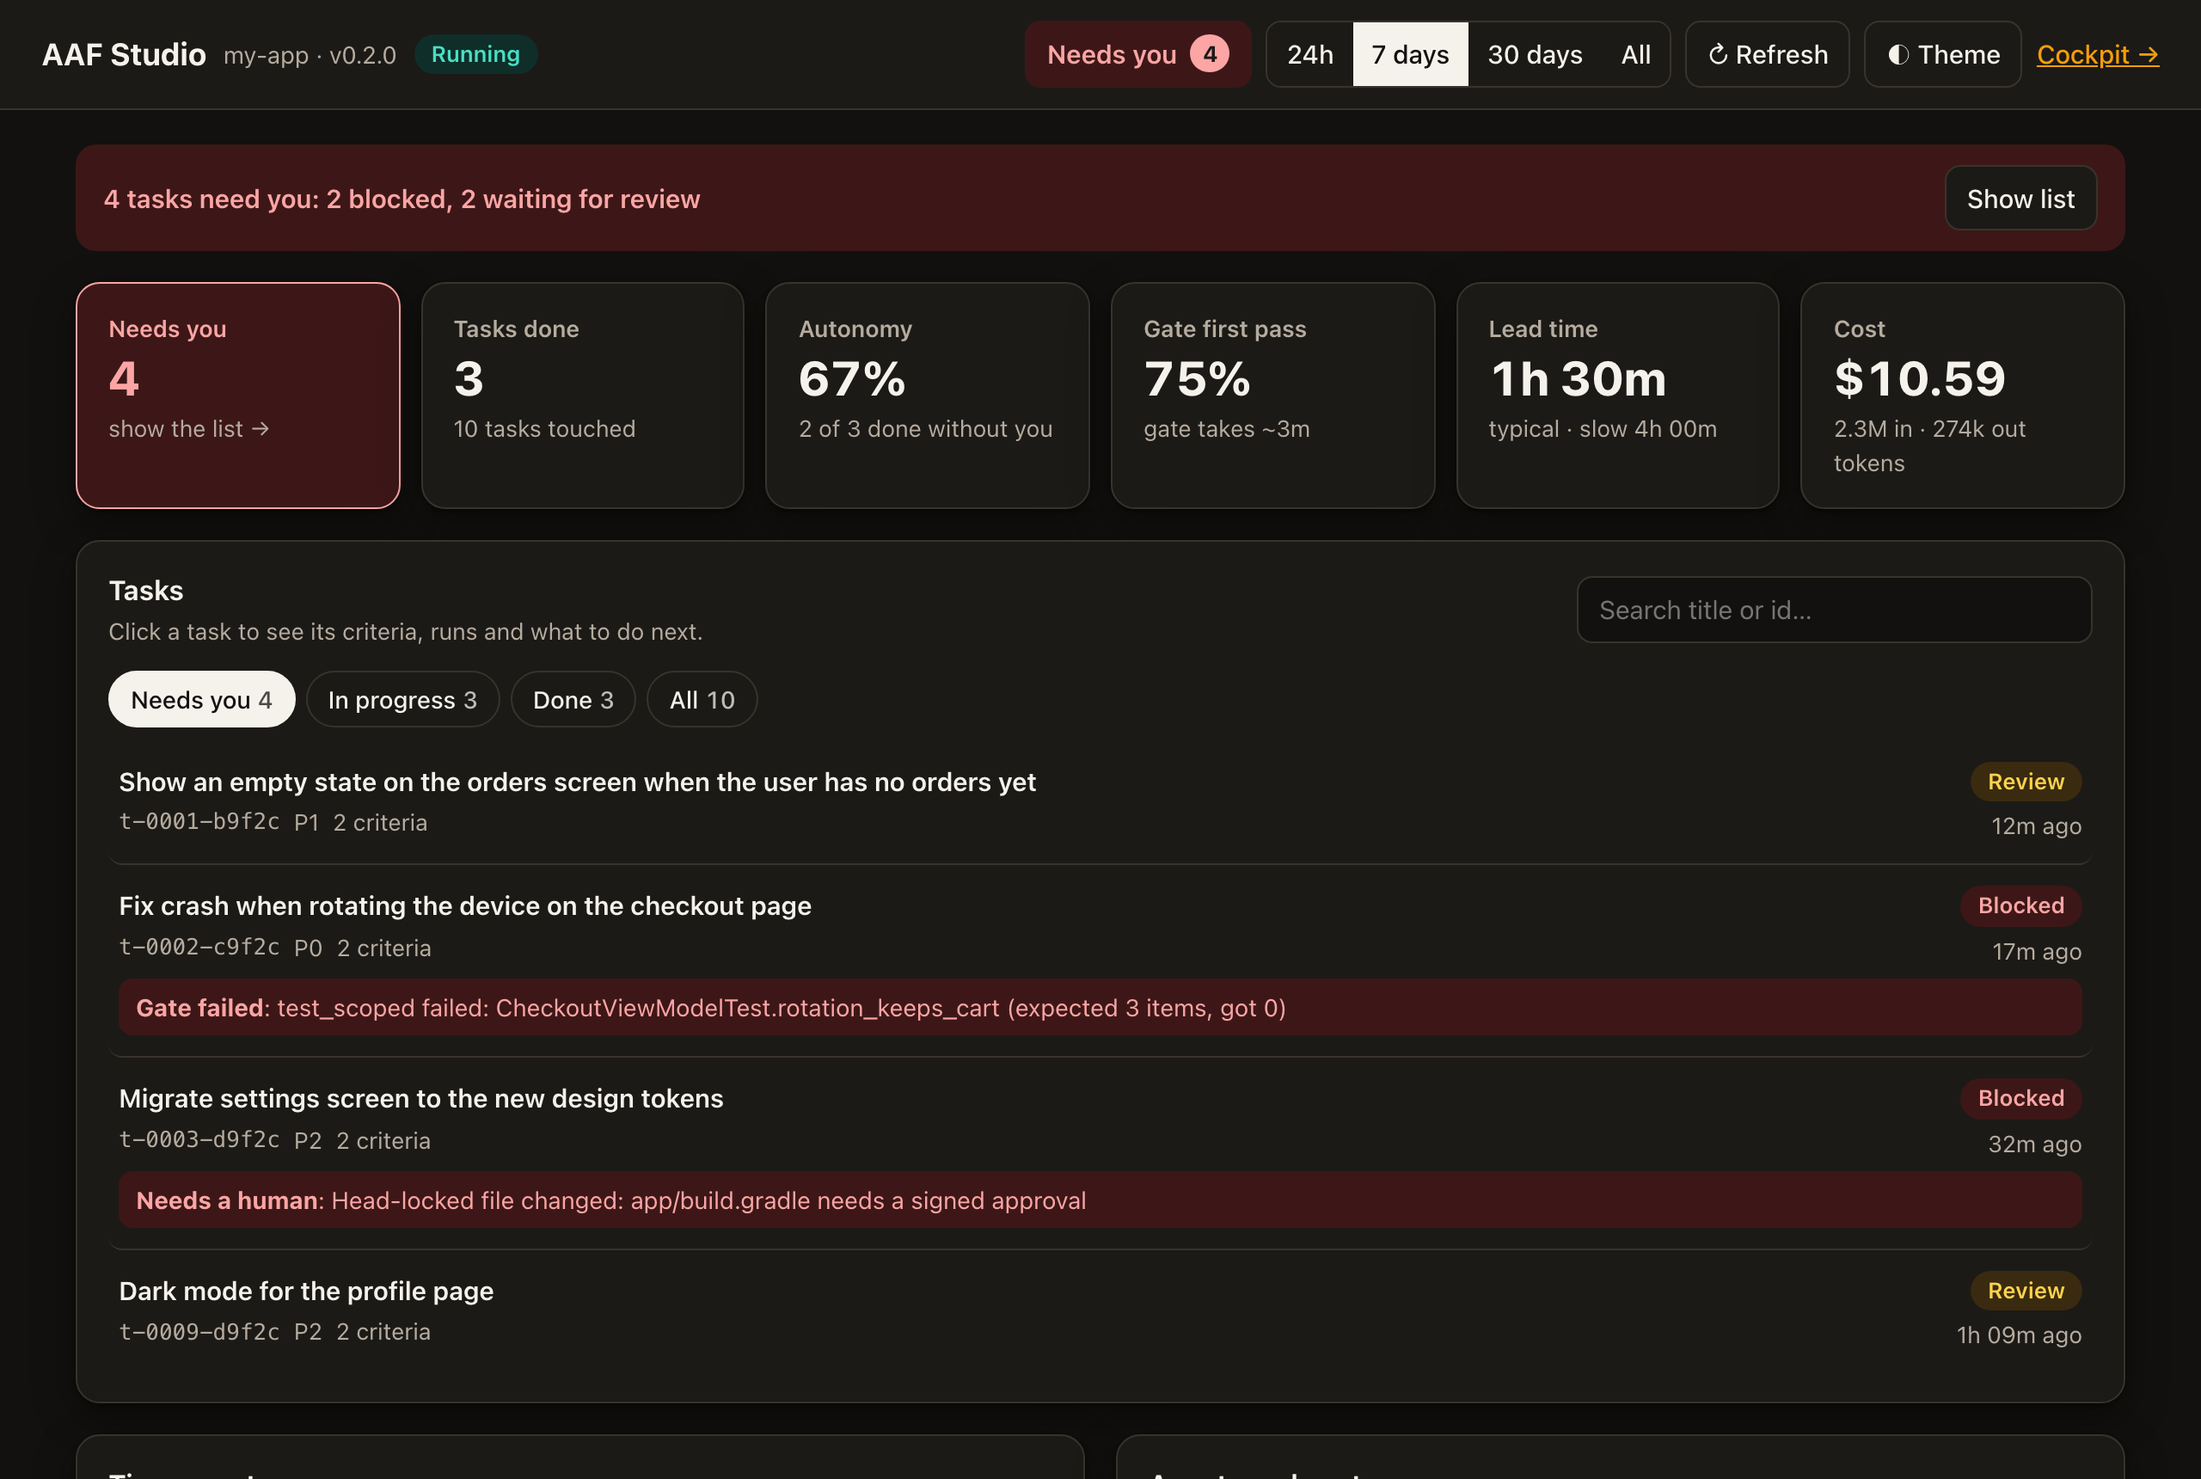
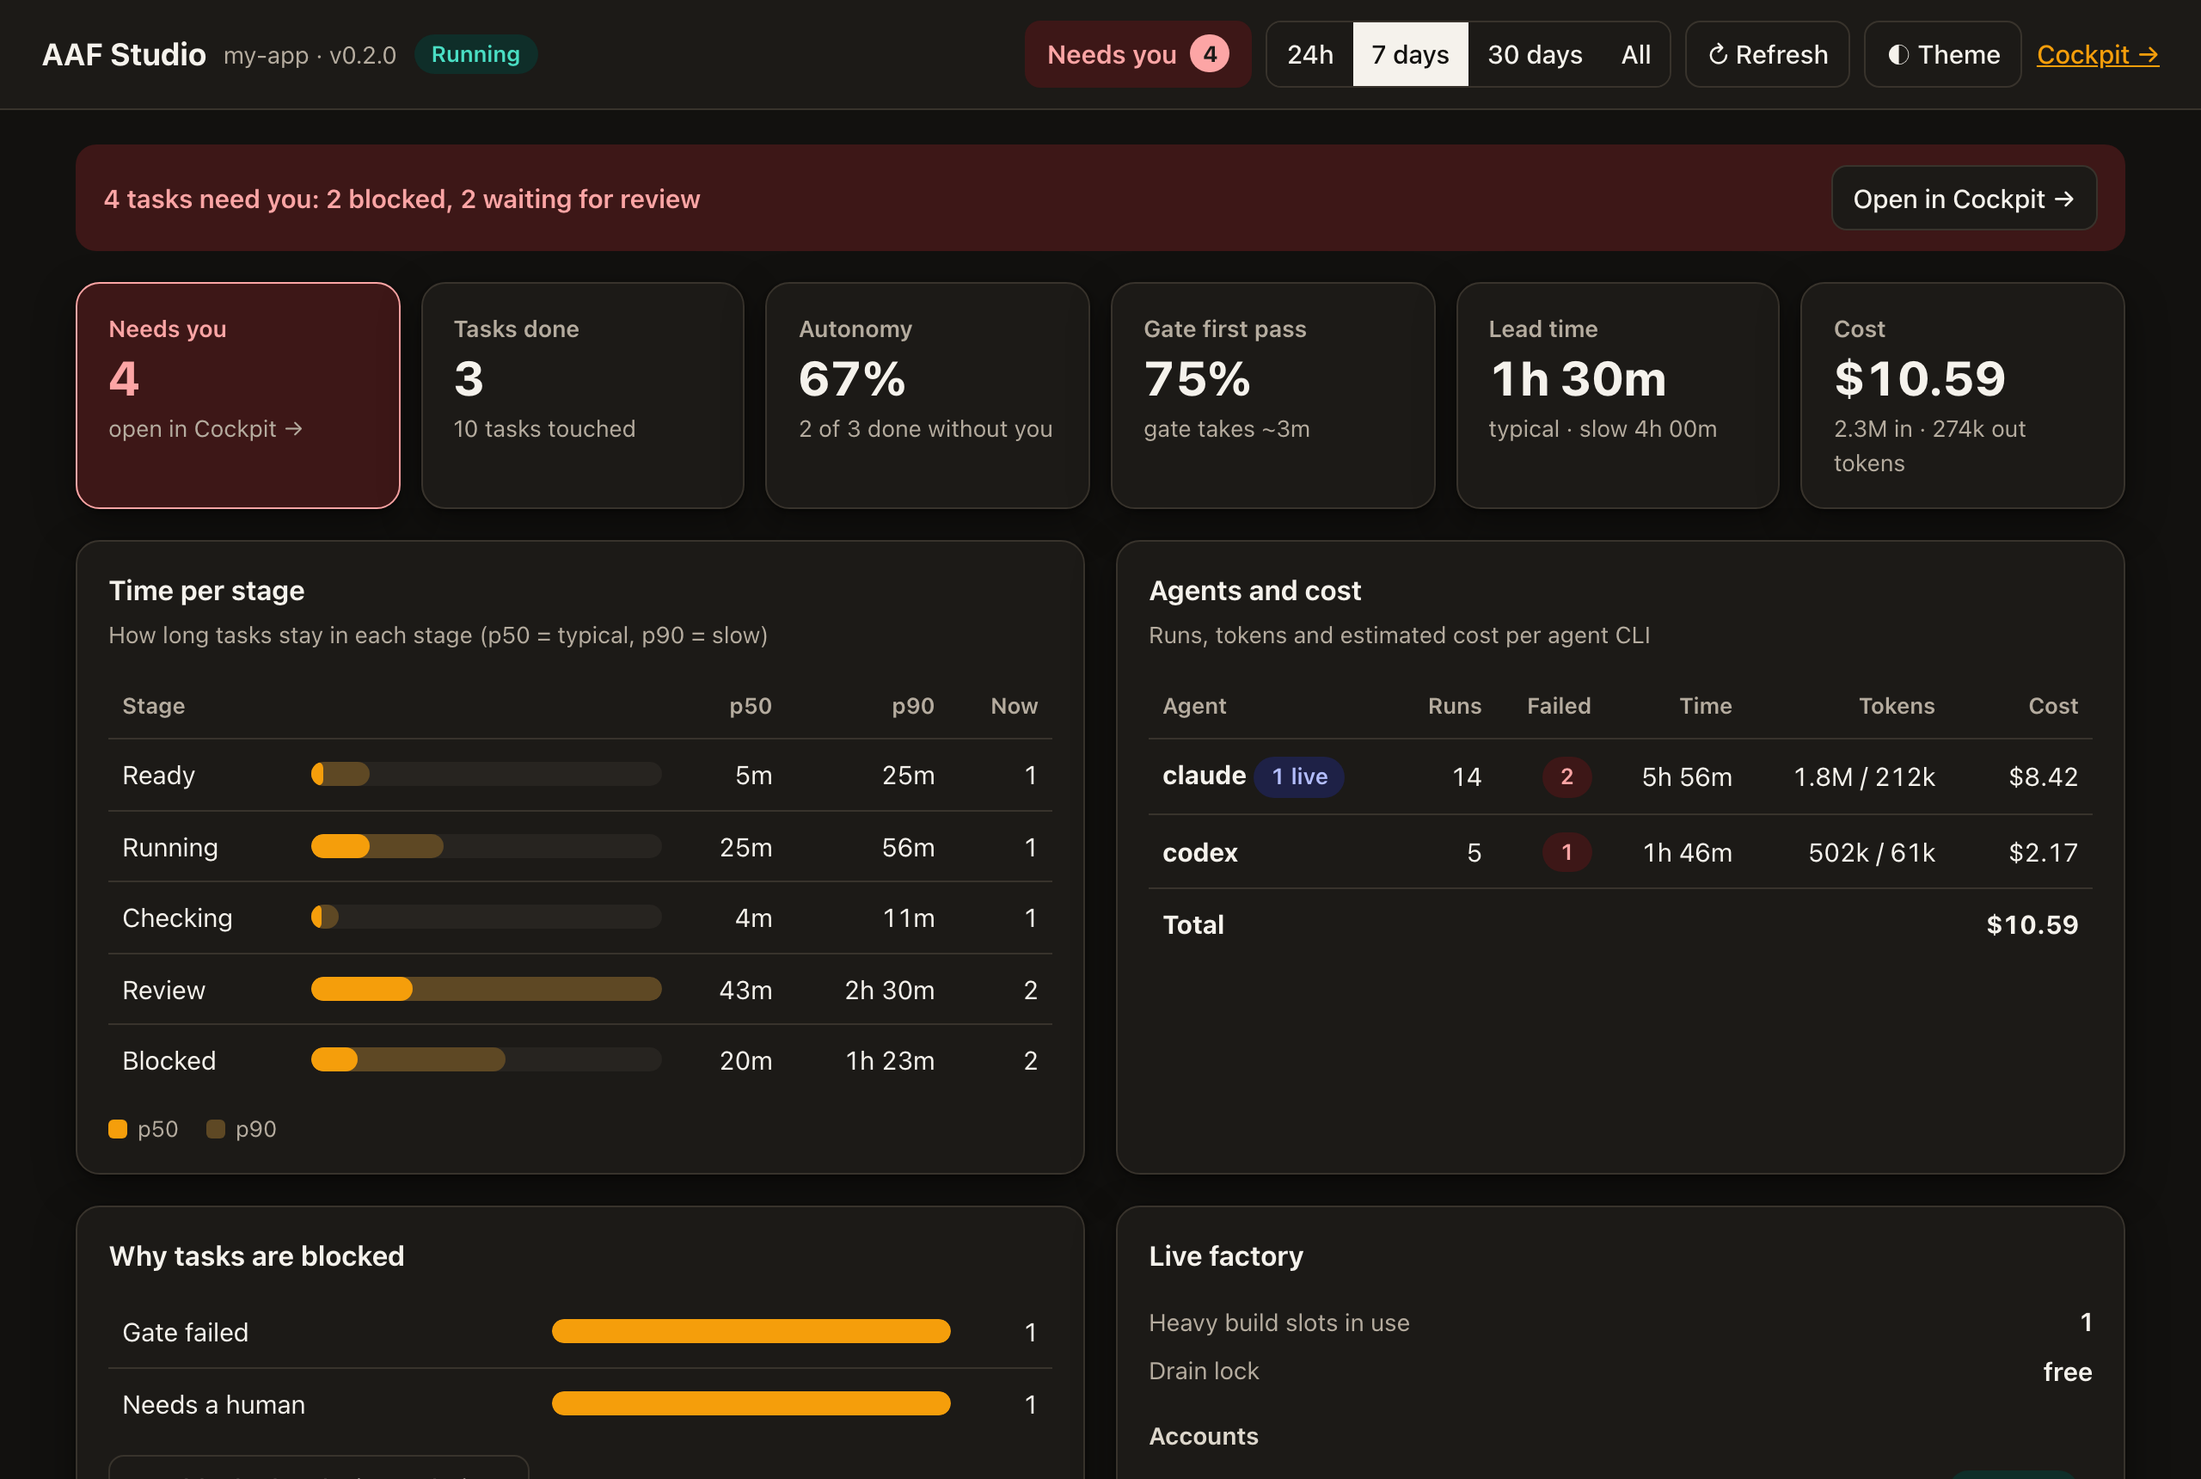
fix(ui): aaf ui --open mở lại Cockpit; Studio chỉ còn là màn thống kê
- aaf ui --open mở Cockpit (/) như trước; vẫn in link Studio.
- Cockpit có nút Studio ở header; /?view=needyou mở thẳng tab Need You.
- Studio bỏ danh sách task và panel Needs you (đã có ở Cockpit); nút, banner
  và ô KPI Needs you chuyển sang Need You của Cockpit.
- README/QUICKSTART: bảng Cockpit (làm việc) và Studio (theo dõi), ảnh mới.

diff --git a/crates/aaf-engine/src/web_ui/studio.html b/crates/aaf-engine/src/web_ui/studio.html
@@ -37,6 +37,7 @@ header{position:sticky;top:0;z-index:5;display:flex;flex-wrap:wrap;gap:10px 14px
 .seg{display:inline-flex;border:1px solid var(--border);border-radius:9px;overflow:hidden}
 .seg button{border:0;border-radius:0;padding:7px 11px}
 .seg button.on{background:var(--ink);color:var(--bg)}
+a.needbtn,a.btnlink{display:inline-flex;align-items:center;text-decoration:none;border:1px solid var(--border);background:var(--surface);color:var(--ink);border-radius:9px;padding:7px 12px}
 .needbtn{display:inline-flex;align-items:center;gap:8px;font-weight:600}
 .needbtn.hot{background:var(--err-bg);border-color:transparent;color:var(--err)}
 .badge{display:inline-flex;align-items:center;justify-content:center;min-width:22px;height:22px;padding:0 7px;border-radius:999px;font-size:13px;font-weight:700;background:var(--surface2);color:var(--ink)}
@@ -133,7 +134,7 @@ ul.ac li{margin:3px 0;overflow-wrap:anywhere}
 <header>
   <div class="brand"><h1>AAF Studio</h1><span class="scope" id="scope"></span><span class="pill" id="factory">…</span></div>
   <div class="controls">
-    <button id="needBtn" class="needbtn" title="Tasks that are blocked or waiting for your review">Needs you <span class="badge" id="needCount">0</span></button>
+    <a id="needBtn" class="needbtn" href="/?view=needyou" title="Open the Need You list in the Cockpit">Needs you <span class="badge" id="needCount">0</span></a>
     <div class="seg" id="period" aria-label="Period">
       <button data-h="24">24h</button><button data-h="168" class="on">7 days</button><button data-h="720">30 days</button><button data-h="">All</button>
     </div>
@@ -144,16 +145,8 @@ ul.ac li{margin:3px 0;overflow-wrap:anywhere}
 </header>
 <main>
   <div class="card err" id="err"></div>
-  <div class="banner" id="banner"><span id="bannerText"></span><button id="bannerBtn">Show list</button></div>
+  <div class="banner" id="banner"><span id="bannerText"></span><a id="bannerBtn" class="btnlink" href="/?view=needyou">Open in Cockpit →</a></div>
   <section class="grid" id="kpis"></section>
-  <section class="card">
-    <div class="head">
-      <div><h2>Tasks</h2><div class="sub">Click a task to see its criteria, runs and what to do next.</div></div>
-      <input class="search" id="search" type="search" placeholder="Search title or id…" aria-label="Search tasks">
-    </div>
-    <div class="chips" id="filters"></div>
-    <div class="tasks" id="tasks" style="margin-top:8px"></div>
-  </section>
   <section class="two">
     <div class="card"><h2>Time per stage</h2><div class="sub">How long tasks stay in each stage (p50 = typical, p90 = slow)</div><div id="stages"></div>
       <div class="legend"><span>p50</span><span class="p90">p90</span></div></div>
@@ -290,20 +283,6 @@ ul.ac li{margin:3px 0;overflow-wrap:anywhere}
     }
   }
 
-  function openNeeds() {
-    const list = needs();
-    openDrawer("Needs you", list.length ? `${list.length} task${list.length > 1 ? "s" : ""} waiting on you` : "Nothing is waiting on you",
-      list.length ? list.map((t) => {
-        const step = nextSteps(t);
-        const reason = t.state === "blocked" ? `<b>${esc(reasonLabel(t.blocked_reason))}</b>${t.blocked_detail ? ": " + esc(t.blocked_detail) : ""}` : "";
-        return `<div class="need"><div style="display:flex;justify-content:space-between;gap:10px;align-items:flex-start"><div class="t">${esc(t.title)}</div>${pill(t.state)}</div>` +
-          `<div class="meta muted" style="font-size:13.5px;margin-top:2px"><span class="mono">${esc(t.id)}</span> · ${esc(t.priority || "")} · ${esc(ago(t.updated_at))}</div>` +
-          (reason ? `<div class="r">${reason}</div>` : "") +
-          (step.text ? `<div class="r muted">${esc(step.text)}</div>` : "") + step.cmds.map(cmd).join("") +
-          `<div class="acts"><button data-task="${esc(t.id)}">Details</button><a href="/" style="align-self:center">Open in Cockpit →</a></div></div>`;
-      }).join("") : `<div class="empty">🎉 All clear. Nothing is blocked and nothing waits for review.</div>`);
-  }
-
   // ---------- Drawer ----------
   function openDrawer(title, sub, html) {
     $("drawerTitle").textContent = title; $("drawerSub").textContent = sub || "";
@@ -365,35 +344,13 @@ ul.ac li{margin:3px 0;overflow-wrap:anywhere}
     const c = r.counts || {}, a = r.autonomy || {}, lt = r.lead_time || {};
     const n = needs().length;
     $("kpis").innerHTML = [
-      kpi("Needs you", num(n), n ? "show the list" : "nothing waiting", { action: "needs", hot: n > 0 }),
+      kpi("Needs you", num(n), n ? "open in Cockpit" : "nothing waiting", { action: "needs", hot: n > 0 }),
       kpi("Tasks done", num(r.tasks_done), `${num(c.total)} tasks touched`),
       kpi("Autonomy", pct(a.autonomy_rate_pct), `${num(a.done_without_human)} of ${num(a.done_tasks)} done without you`),
       kpi("Gate first pass", pct(a.gate_first_pass_rate_pct), a.gate_avg_duration_ms != null ? `gate takes ~${dur(Math.round(a.gate_avg_duration_ms / 1000))}` : "share passing first try"),
       kpi("Lead time", lt.samples ? dur(lt.p50_secs) : "n/a", lt.samples ? `typical · slow ${dur(lt.p90_secs)}` : "created → done"),
       kpi("Cost", usd(r.estimated_cost_usd), `${compact(r.total_tokens_in)} in · ${compact(r.total_tokens_out)} out tokens`),
     ].join("");
-  }
-
-  function renderFilters() {
-    $("filters").innerHTML = FILTERS.map(([key, label, fn]) =>
-      `<button data-filter="${key}" class="${filter === key ? "on" : ""}">${esc(label)}<span class="c">${tasks.filter(fn).length}</span></button>`).join("");
-  }
-
-  function renderTasks() {
-    renderFilters();
-    const fn = (FILTERS.find((f) => f[0] === filter) || FILTERS[3])[2];
-    const q = query.trim().toLowerCase();
-    const rows = tasks.filter(fn).filter((t) => !q || String(t.title).toLowerCase().includes(q) || String(t.id).toLowerCase().includes(q))
-      .sort((a, b) => (b.updated_at || 0) - (a.updated_at || 0)).slice(0, 80);
-    if (!tasks.length) { $("tasks").innerHTML = `<div class="empty">No task yet. Add one with <span class="mono">aaf board add</span> or from the Cockpit.</div>`; return; }
-    if (!rows.length) { $("tasks").innerHTML = `<div class="empty">${filter === "need" && !q ? "🎉 Nothing needs you right now." : "No task matches."}</div>`; return; }
-    $("tasks").innerHTML = rows.map((t) => {
-      const ac = t.acceptance || [];
-      const why = t.state === "blocked" ? `<div class="why"><b>${esc(reasonLabel(t.blocked_reason))}</b>${t.blocked_detail ? ": " + esc(t.blocked_detail) : ""}</div>` : "";
-      return `<div class="trow" data-task="${esc(t.id)}" tabindex="0" role="button">` +
-        `<div><div class="t">${esc(t.title)}</div><div class="meta"><span class="mono">${esc(t.id)}</span>${t.priority ? `<span>${esc(t.priority)}</span>` : ""}${ac.length ? `<span>${t.state === "done" ? "✓ " : ""}${ac.length} criteria</span>` : ""}</div></div>` +
-        `<div class="side">${pill(t.state)}<span>${esc(ago(t.updated_at))}</span></div>${why}</div>`;
-    }).join("");
   }
 
   function renderStages(stages) {
@@ -422,7 +379,7 @@ ul.ac li{margin:3px 0;overflow-wrap:anywhere}
     const max = Math.max(1, ...top.map((t) => t[1]));
     $("blocked").innerHTML = `<table>` + top.map(([kind, n]) =>
       `<tr><td>${esc(reasonLabel(kind))}</td><td style="width:45%"><div class="bar"><b style="width:${(100 * n / max).toFixed(1)}%"></b></div></td><td class="n">${num(n)}</td></tr>`).join("") +
-      `</table><div style="margin-top:10px"><button data-action="needs">See blocked tasks →</button></div>`;
+      `</table><div style="margin-top:10px"><a class="btnlink" href="/?view=needyou">See blocked tasks in Cockpit →</a></div>`;
   }
 
   function renderLive(st) {
@@ -479,7 +436,6 @@ ul.ac li{margin:3px 0;overflow-wrap:anywhere}
       renderExecutors(r.executors, r.estimated_cost_usd);
       renderBlocked(r.top_blocked);
     }
-    renderTasks();
     renderLive(lastStatus);
     $("foot").textContent = "Updated " + new Date().toLocaleTimeString() + " · refreshes every 15 s";
   }
@@ -506,11 +462,8 @@ ul.ac li{margin:3px 0;overflow-wrap:anywhere}
     });
     $("refresh").onclick = refresh;
     $("runDoctor").onclick = runDoctor;
-    $("needBtn").onclick = openNeeds;
-    $("bannerBtn").onclick = openNeeds;
     $("drawerClose").onclick = closeDrawer;
     $("scrim").onclick = closeDrawer;
-    $("search").oninput = (e) => { query = e.target.value; renderTasks(); };
     document.addEventListener("keydown", (e) => {
       if (e.key === "Escape") closeDrawer();
       if ((e.key === "Enter" || e.key === " ") && e.target.classList && e.target.classList.contains("trow")) { e.preventDefault(); openTask(e.target.dataset.task); }
@@ -519,8 +472,7 @@ ul.ac li{margin:3px 0;overflow-wrap:anywhere}
       const el = e.target.closest("[data-copy],[data-filter],[data-action],[data-task]");
       if (!el) return;
       if (el.dataset.copy != null) return copy(el.dataset.copy);
-      if (el.dataset.filter) { filter = el.dataset.filter; return renderTasks(); }
-      if (el.dataset.action === "needs") return openNeeds();
+      if (el.dataset.action === "needs") { location.href = "/?view=needyou"; return; }
       if (el.dataset.task) { if ($("drawer").classList.contains("open")) closeDrawer(); return openTask(el.dataset.task); }
     });
     $("tokOk").onclick = () => {

diff --git a/crates/aaf-engine/src/web_ui/index.html b/crates/aaf-engine/src/web_ui/index.html
@@ -127,6 +127,7 @@ th{font-size:11px;text-transform:uppercase;letter-spacing:.04em;color:var(--mute
       </div>
       <div class="top-actions">
         <span class="sse-pill"><span id="sseDot" class="dot"></span><span id="sseLabel">Idle</span></span>
+        <a href="/studio" class="btn-sm" style="text-decoration:none;color:inherit" title="Statistics screen: KPIs, time per stage, cost">Studio</a>
         <button id="refreshBtn" class="btn-sm" title="Refresh now">Refresh</button>
         <button id="themeBtn" class="btn-sm" title="Toggle light/dark">Theme</button>
         <button id="lockBtn" class="btn-sm" title="Clear session token">Lock</button>
@@ -798,6 +799,7 @@ th{font-size:11px;text-transform:uppercase;letter-spacing:.04em;color:var(--mute
     renderChips();
     document.querySelectorAll(".tab[data-tab]").forEach((b) => { b.onclick = () => { if (b.dataset.tab === "board" && stateFilter === "need_you") { stateFilter = "all"; renderChips(); renderBoard(); } switchTab(b.dataset.tab); }; });
     $("needYouTabBtn").onclick = () => { stateFilter = "need_you"; switchTab("board"); renderChips(); renderBoard(); };
+    if (new URLSearchParams(location.search).get("view") === "needyou") { stateFilter = "need_you"; renderChips(); }
     $("prioFilter").onchange = renderBoard;
     $("searchBox").oninput = renderBoard;
     $("refreshBtn").onclick = () => refreshAll().then(() => toast("Refreshed")).catch((e) => toast(e.message));

diff --git a/crates/aaf-cli/src/cmd/ui.rs b/crates/aaf-cli/src/cmd/ui.rs
@@ -116,11 +116,11 @@ pub fn run(args: &UiArgs, ctx: &Ctx) -> CmdResult {
     let url = pairing_url(&pairing_host, bound.port(), &cfg.token);
     let card = render_pairing_card(&url, args.read_only, cfg.lan_mode, args.qr);
     let studio = studio::studio_url(&url);
-    eprintln!("{card}\nStudio (all metrics): {studio}");
+    eprintln!("{card}\nStudio (statistics only): {studio}");
     eprintln!("Listening on http://{bound} (press q + Enter or Ctrl-C to stop)");
     #[cfg(target_os = "macos")]
     if args.open && ctx.stdin_is_tty {
-        let _ = std::process::Command::new("open").arg(&studio).spawn();
+        let _ = std::process::Command::new("open").arg(&url).spawn();
     }
     let quit = Arc::new(AtomicBool::new(false));
     if ctx.stdin_is_tty {

diff --git a/README.md b/README.md
@@ -89,32 +89,32 @@ Keep both `aaf` and `aaf-hook` on your `PATH`. Details: [Quickstart](docs/QUICKS
 > (for example `claude`) logged in. `gh` is optional, for pull requests.
 > On Linux, agents run without a sandbox for now (`aaf run --unsandboxed`).
 
-## 📊 Studio: all your numbers on one page
+## 🖥 Cockpit and 📊 Studio
 
 ```sh
-aaf ui --open        # → http://127.0.0.1:4317/studio
+aaf ui --open        # opens the Cockpit; it also prints the Studio link
 ```
 
-![aaf Studio: KPIs and the task list](docs/images/studio.png)
+`aaf ui` serves two screens on `http://127.0.0.1:4317`:
 
-- **Needs you**: one click lists every blocked task and every task waiting for review, with the reason and the exact command to fix it
-- **Tasks**: filter (needs you · in progress · done · all), search, and click any task for its spec, criteria, agent runs and history
-- **KPIs**: tasks done, autonomy, gate first-pass rate, lead time, tokens and cost
-- **Time per stage** (p50 / p90), **cost per agent**, **live factory** and **health checks** (`aaf doctor`)
+| Screen | For | What is on it |
+|---|---|---|
+| **Cockpit** `/` | Working | Board, **Need You** list, approvals, live agent logs, machine and accounts |
+| **Studio** `/studio` | Watching | Statistics only: KPIs, time per stage, cost per agent, why tasks block, health checks |
+
+Each has a button to the other. Studio's **Needs you** counter opens the Cockpit's Need You list.
+
+![aaf Studio statistics screen](docs/images/studio.png)
 
 <details>
-<summary>More screenshots: the "Needs you" panel and dark mode</summary>
-
-![Needs you panel](docs/images/studio-needs.png)
+<summary>Studio in dark mode</summary>
 
 ![Studio in dark mode](docs/images/studio-dark.png)
 
 </details>
 
-<sub>Screenshots use demo data.</sub>
-
-It refreshes every 15 seconds and works on your phone. The same report is in
-the terminal with `aaf report --since 24`.
+<sub>Screenshots use demo data.</sub> Studio refreshes every 15 seconds and works on your
+phone. The same report is in the terminal with `aaf report --since 24`.
 
 ## 🧰 Everyday commands
 

diff --git a/docs/QUICKSTART.md b/docs/QUICKSTART.md
@@ -141,7 +141,8 @@ aaf run
 ## 6. Studio: every number on one page
 
 Start the local web UI and open the **Studio** link it prints
-(`http://127.0.0.1:4317/studio#token=…`; `aaf ui --open` opens it for you on macOS):
+(`http://127.0.0.1:4317/studio#token=…`). `aaf ui --open` opens the Cockpit for you on macOS;
+Studio is the separate statistics screen, one click away:
 
 ```sh
 aaf ui          # add --qr to pair a phone on the local network
